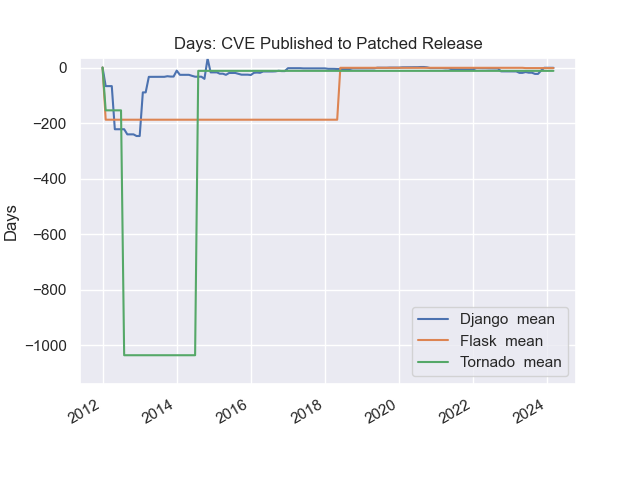
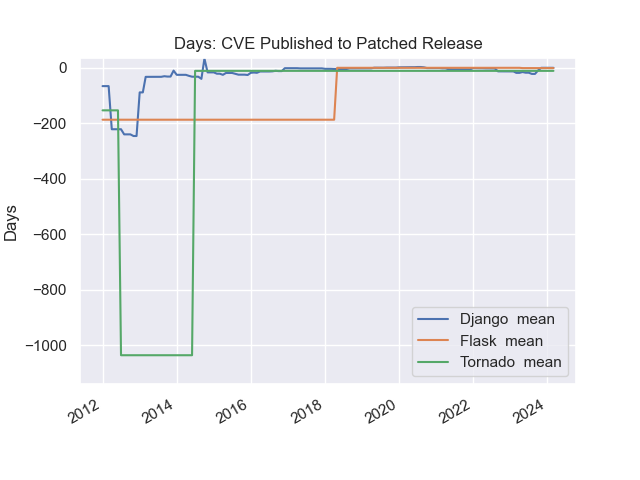
Update KPI computer to return list of lists

diff --git a/src/utils/compute.py b/src/utils/compute.py
@@ -149,6 +149,30 @@ KPIS = {
     },
 }
 
+def values_to_stats(list_of_values: list):
+    """
+    Converts a list of values to a dictionary of statistics.
+    """
+    result = {
+        'sum': [],
+        'mean': [],
+        'std': [],
+        'min': [],
+        'max': [],
+    }
+    for values in list_of_values:
+        if not values:
+            for k in result:
+                result[k].append(None)
+        else:
+            result['sum'].append(np.sum(values))
+            result['mean'].append(np.mean(values))
+            result['std'].append(np.std(values))
+            result['min'].append(np.min(values))
+            result['max'].append(np.max(values))
+    return result
+    
+
 def timeline_kpis(data: dict, *kpis: str):
     """
     Computes KPIs for a timeline data structure.
@@ -164,15 +188,6 @@ def timeline_kpis(data: dict, *kpis: str):
     kpi_args = list(kpis)
     kpi_argset = set(kpi_args)
     # first, we compute release-related KPIs
-    previous_non_null = {
-        k: {
-            'sum': 0,
-            'min': 0,
-            'max': 0,
-            'mean': 0,
-            'std': 0,
-        } for k in kpi_argset
-    }
     for entry in timeline:
         dates.append(entry.get('date'))
         rel = entry.get('release')
@@ -190,13 +205,7 @@ def timeline_kpis(data: dict, *kpis: str):
             element_name: str = kpi.get('element')
             element = ids = None
             if 'values' not in results[k]:
-                results[k]['values'] = {
-                    'sum': [],
-                    'min': [],
-                    'max': [],
-                    'mean': [],
-                    'std': [],
-                }
+                results[k]['values'] = []
             returns_values = kpi.get('returns_values')
             if returns_values:
                 logger.info(f"Returns values for KPI '{k}'")
@@ -206,17 +215,7 @@ def timeline_kpis(data: dict, *kpis: str):
                     continue
                 try:
                     values = key(data, entry)
-                    non_null = previous_non_null.get(k)
-                    if len(values) > 0:
-                        previous_non_null[k] = {
-                            'sum': sum(values),
-                            'min': min(values),
-                            'max': max(values),
-                            'mean': np.mean(values),
-                            'std': np.std(values),
-                        }
-                    for k2 in results[k]['values']:
-                        results[k]['values'][k2].append(non_null[k2])
+                    results[k]['values'].append(values)
                     continue
                 except Exception as e:
                     logger.error(f"Could not compute KPI '{k}': {e}")
@@ -268,19 +267,10 @@ def timeline_kpis(data: dict, *kpis: str):
                     logger.error(f"Unexpected function type: {type(key).__name__}")
                     continue
             scores = [s for s in scores if s is not None]
-            non_null = previous_non_null.get(k)
-            vals = results[k]['values']
-            if len(scores) > 0:
-                # replace the previous values with the new ones
-                previous_non_null[k] = {
-                    'sum': sum(scores),
-                    'min': min(scores),
-                    'max': max(scores),
-                    'mean': np.mean(scores),
-                    'std': np.std(scores),
-                }
-            for k2 in vals:
-                vals[k2].append(non_null[k2])
+            results[k]['values'].append(scores)
     # then we compute the KPIs for the CVEs
     results['dates'] = dates
     return results
+
+def overall_kpis(data: dict, *kpis):
+    pass

diff --git a/scripts/plotter.py b/scripts/plotter.py
@@ -86,7 +86,6 @@ def get_platform(project: str):
         platform, project = parts[0], parts[1]
     return platform.lower(), project.lower()
 
-
 def convert_datetime_to_str(data: dict):
     """
     Converts dictionaries with datetime objects to strings
@@ -182,7 +181,19 @@ def plot_timelines(timelines: dict):
             if values is None:
                 logger.error(f"Could not find KPI '{kpi}' for {project}")
                 continue
+            values = compute.values_to_stats(values)
             suffix = ''
+            prev = {
+                k: 0 for k in values
+            }
+            for i in range(1, len(values.get(default_value_key))):
+                if values.get(default_value_key)[i] is None:
+                    for k in values:
+                        values.get(k)[i] = prev.get(k)
+                else:
+                    prev = {
+                        k: values.get(k)[i] for k in values
+                    }
             lower = upper = None
             has_max = 'max' in kpi_dict
             max_value = kpi_dict.get('max', None)
